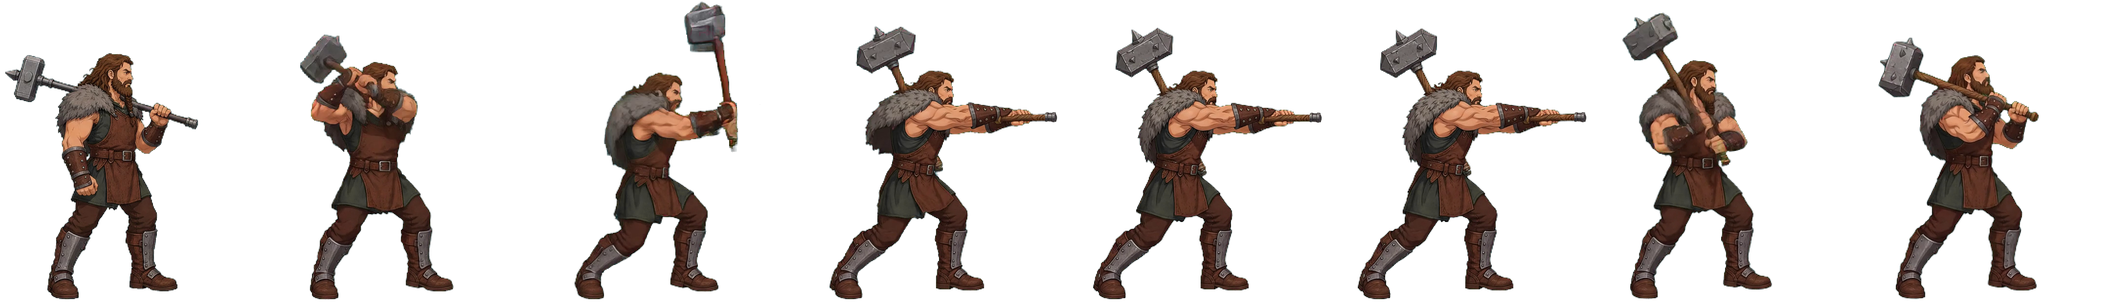
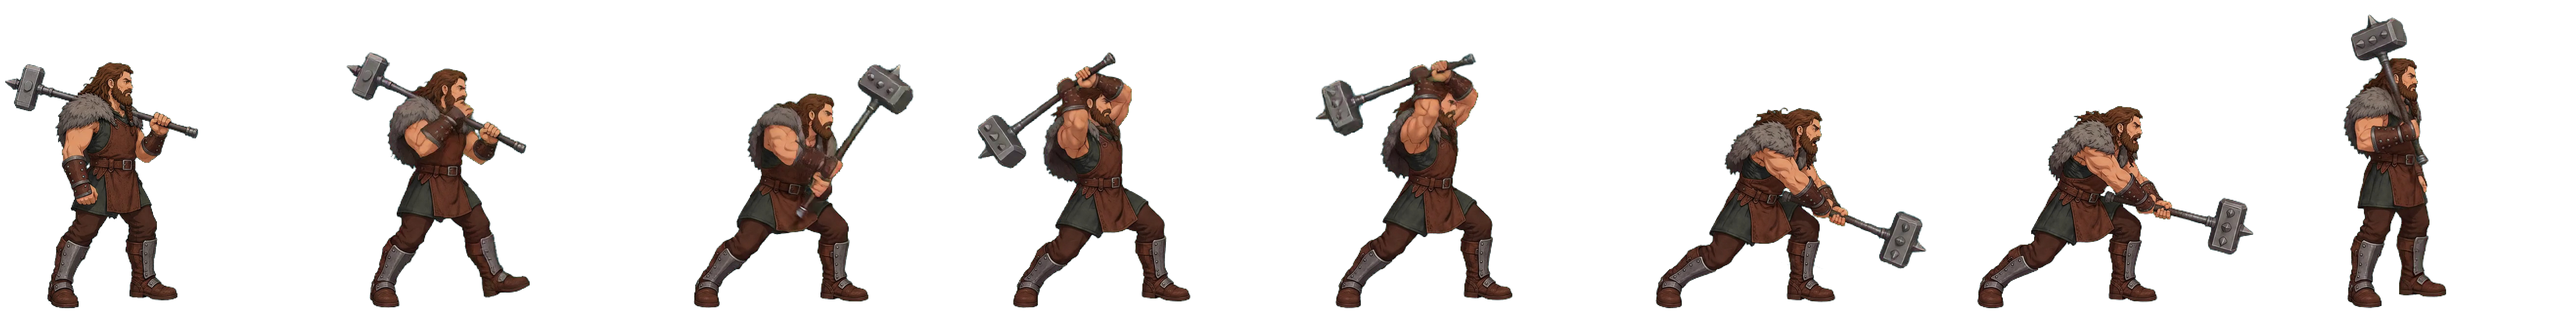
Play Thor's Fuel Rod Hammer from the overhead sheet.
The file stays fuel-rod-jab. The hit is the short downward strike, and the damage stays 6 kinetic plus 4 radiation.

diff --git a/tests/body-clips.test.js b/tests/body-clips.test.js
@@ -5,7 +5,7 @@ import { PNG } from 'pngjs';
 import { CHARACTERS } from '../src/data/characters.js';
 import { MOVE_SHEETS } from '../src/data/moveSheets.js';
 import { artIsUpdated } from '../src/data/updatedArt.js';
-import { bodySourceSlug, hasBodyClips } from '../src/data/bodyClips.js';
+import { bodySourceSlug, hasBodyClips, moveBodySlug } from '../src/data/bodyClips.js';
 import { followThroughBlend, guardIdleBlend } from '../src/engine/feel.js';
 import { bodySheetMuzzle, clipNameForMove, frameToWorld, sheetFrameIndex, sheetMeta } from '../src/engine/moveSheet.js';
 import { cascadePulseArt, shoulderSlashOrigin, shoulderWhipIndex, swingFrameIndex } from '../src/engine/fxArt.js';
@@ -43,7 +43,7 @@ test('per-move body clips keep the idle height and the json foot line', () => {
     for (const file of readdirSync(dir).filter((name) => name.endsWith('.json'))) {
       const json = JSON.parse(readFileSync(`${dir}/${file}`, 'utf8'));
       const moveKey = Object.keys(CHARACTERS[id].moves).find((key) => {
-        return bodySourceSlug(id, CHARACTERS[id].moves[key]?.name) === json.move;
+        return moveBodySlug(id, CHARACTERS[id].moves[key]) === json.move;
       });
       assert.ok(moveKey, `${id} ${json.move}`);
       const clipKey = clipNameForMove(id, moveKey);
@@ -1039,16 +1039,18 @@ test('Roger points from the sheet hand, and the hook arc covers the short punch'
   assert.ok(creepMeta.anchors.fist[5][1] < 500);
 });
 
-test('Thor jabs from the shortened handle, and Thule aims with an empty hand', () => {
-  const jab = CHARACTERS.thor.art.sheets.clips['body-basicDirectional'];
-  const jabMeta = sheetMeta('thor', 'body-basicDirectional');
-  assert.equal(jab.file, 'thor_fuel-rod-jab.png');
-  assert.equal(jab.frameW, 609);
-  assert.equal(jab.frameH, 708);
-  assert.equal(Math.round(jab.footY * jab.frameH) - 1, 689);
-  assert.equal(jabMeta.release, 3);
-  assert.deepEqual(jabMeta.active, [3, 5]);
-  assert.deepEqual(jabMeta.anchors.fist[3], [605, 272]);
+test('Thor hammers overhead, and Thule aims with an empty hand', () => {
+  const hammerStrike = CHARACTERS.thor.art.sheets.clips['body-basicDirectional'];
+  const hammerStrikeMeta = sheetMeta('thor', 'body-basicDirectional');
+  assert.equal(hammerStrike.file, 'thor_fuel-rod-jab.png');
+  assert.equal(moveBodySlug('thor', CHARACTERS.thor.moves.basicDirectional), 'fuel-rod-jab');
+  assert.equal(hammerStrike.frameW, 741);
+  assert.equal(hammerStrike.frameH, 729);
+  assert.equal(Math.round(hammerStrike.footY * hammerStrike.frameH) - 1, 710);
+  assert.equal(hammerStrikeMeta.release, 5);
+  assert.deepEqual(hammerStrikeMeta.active, [5, 6]);
+  assert.deepEqual(hammerStrikeMeta.anchors.fist[5], [702, 499]);
+  assert.deepEqual(hammerStrikeMeta.anchors.fist[6], [725, 482]);
   const hammer = sheetMeta('thor', 'body-basicCharge');
   assert.equal(CHARACTERS.thor.art.sheets.clips['body-basicCharge'].file, 'thor_thunder-hammer.png');
   assert.deepEqual(hammer.loop, [0, 3]);

diff --git a/src/data/bodyClipSources.js b/src/data/bodyClipSources.js
@@ -8431,49 +8431,48 @@ export const BODY_SOURCES = {
       ]
     },
     "fuel-rod-jab": {
-      "frameW": 609,
-      "frameH": 708,
+      "frameW": 741,
+      "frameH": 729,
       "count": 8,
       "fps": 14,
-      "footRow": 689,
+      "footRow": 710,
       "visibleH": 566,
       "strikes": [
-        3,
-        4,
-        5
+        5,
+        6
       ],
       "hands": [
         [
           455,
-          283
+          303
         ],
         [
-          351,
-          246
+          468,
+          338
         ],
         [
-          479,
-          311
+          614,
+          232
         ],
         [
-          605,
-          272
+          385,
+          443
         ],
         [
-          605,
-          273
+          437,
+          219
         ],
         [
-          605,
-          272
+          702,
+          499
         ],
         [
-          367,
-          327
+          725,
+          482
         ],
         [
-          428,
-          267
+          400,
+          370
         ]
       ]
     },

diff --git a/tests/moves.test.js b/tests/moves.test.js
@@ -1971,11 +1971,16 @@ test('thor, boar, and dash keep the approved batch rules', () => {
   assert.equal(thor.basicCharge.type, 'kinetic');
   assert.equal(thor.basicCharge.type2, 'electrical');
   assert.equal(thor.basicCharge.radius, 58);
-  assert.equal(thor.basicDirectional.name, 'Fuel Rod Jab');
+  assert.equal(thor.basicDirectional.name, 'Fuel Rod Hammer');
+  assert.equal(thor.basicDirectional.sourceSlug, 'fuel-rod-jab');
   assert.equal(thor.basicDirectional.type, 'kinetic');
   assert.equal(thor.basicDirectional.type2, 'radiation');
   assert.equal(thor.basicDirectional.damage, 6);
   assert.equal(thor.basicDirectional.damage2, 4);
+  assert.equal(thor.basicDirectional.startupF, 7);
+  assert.equal(thor.basicDirectional.activeF, 3);
+  assert.equal(thor.basicDirectional.rangeW, 62);
+  assert.equal(thor.basicDirectional.rangeH, 64);
   assert.equal(thor.basicDirectional.onHit, undefined);
   assert.equal(thor.specialDefense.immune[0], 'radiation');
   assert.equal(thor.specialDefense.surgeFrom, 'radiation');

diff --git a/src/data/bodyClips.js b/src/data/bodyClips.js
@@ -59,6 +59,14 @@ export function bodySourceSlug(id, moveName) {
   return pack[folded] ? folded : null;
 }
 
+/** A renamed move can keep its sheet slug. Fuel Rod Hammer still reads fuel-rod-jab. */
+export function moveBodySlug(id, move) {
+  const pack = BODY_SOURCES[id];
+  const pinned = move?.sourceSlug;
+  if (pack && pinned && pack[pinned]) return pinned;
+  return bodySourceSlug(id, move?.name);
+}
+
 export function bodySheetMeta(id, clip) {
   return metaByClip.get(`${id}|${clip}`) || null;
 }
@@ -134,7 +142,7 @@ export function installBodyClips(characters) {
     for (const moveKey of BODY_SLOTS) {
       const move = moves[moveKey];
       if (!move?.name) continue;
-      const slug = bodySourceSlug(id, move.name);
+      const slug = moveBodySlug(id, move);
       const src = slug ? bySlug[slug] : null;
       if (!src) continue;
       const built = compileBodyClip(src, artHeight);

diff --git a/src/data/movesets.js b/src/data/movesets.js
@@ -1222,8 +1222,12 @@ export const MOVESETS = {
       maxChargeMs: 900, radius: 58, vfx: 'spark', vfxColor: 0xf0d24a,
       baseKnockback: 120, knockbackGrowth: 1.7, duration: 280, cooldown: 1000,
     }),
-    basicDirectional: melee('Fuel Rod Jab', {
-      type: K, damage: 6, type2: R, damage2: 4, rangeW: 80, vfx: 'spark',
+    basicDirectional: melee('Fuel Rod Hammer', {
+      // The sheet file stays fuel-rod-jab. The swing raises the hammer, then
+      // the short hit is the downward strike.
+      sourceSlug: 'fuel-rod-jab',
+      type: K, damage: 6, type2: R, damage2: 4, rangeW: 62, rangeH: 64,
+      startupF: 7, activeF: 3, vfx: 'spark',
       baseKnockback: 100, knockbackGrowth: 1.5, duration: 200, cooldown: 480,
     }),
     specialDefense: m('Breeder Blanket', {

diff --git a/src/engine/fxArt.js b/src/engine/fxArt.js
@@ -1309,6 +1309,12 @@ async function attachShards(scene, id, slug, folder, meta, index, charH, sized, 
 async function loadMoveArt(scene, char, slot, move, index) {
   const id = char.id;
   let folder = fxFolder(id, move.name).replace(/^assets\/fx\//, '');
+  // Fuel Rod Hammer keeps the fuel-rod-jab sheets. The display name changed;
+  // the painted files did not.
+  if (move.sourceSlug) {
+    const pinned = `${id}/${move.sourceSlug}`;
+    if (!index || listed(index, `${pinned}/fx.json`)) folder = pinned;
+  }
   // King's Edge lives in kings-edge. The apostrophe slug is king-s-edge,
   // and that folder was never cut. Hatter's Fume keeps hatter-s-fume.
   if (index && !listed(index, `${folder}/fx.json`)) {
